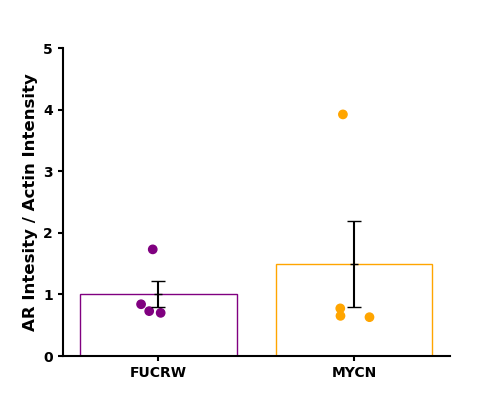
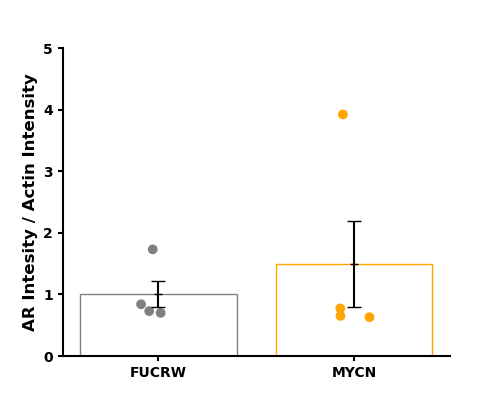
Changed coloring for control group in Western barplots

Changed region(s): [[0.15, 0.72, 0.48, 0.9], [0.3, 0.6, 0.33, 0.63]]

diff --git a/Western_blot/Rep0/Quantification_subset.py b/Western_blot/Rep0/Quantification_subset.py
@@ -61,7 +61,7 @@ if __name__ == '__main__':
     
     ij_object_relative = ij_object.main_method(blank_key = args.blank_key)
     ij_object_relative['Condition'] = [re.sub('-M[0-9]-[0-9]-(E|F)', '', re.sub(' \(1/2\)', '', x)) for x in list(ij_object_relative.index)]
-    ij_object_relative['Color'] = (['orange'] * 4) + (['purple'] * 4)
+    ij_object_relative['Color'] = (['orange'] * 4) + (['grey'] * 4)
 
     ij_object.feature_labels = [x for x in list(ij_object_relative.columns) if x != 'Condition' and x != 'Color' and x != args.normalization_key]
 

diff --git a/Western_blot/Rep1/Quantification/Quantification_subset.py b/Western_blot/Rep1/Quantification/Quantification_subset.py
@@ -61,7 +61,7 @@ if __name__ == '__main__':
     
     ij_object_relative = ij_object.main_method(blank_key = args.blank_key)
     ij_object_relative['Condition'] = [re.sub('-M[0-9]-[0-9]-(E|F)', '', re.sub(' \(1/2\)', '', x)) for x in list(ij_object_relative.index)]
-    ij_object_relative['Color'] = (['orange'] * 4) + (['purple'] * 4)
+    ij_object_relative['Color'] = (['orange'] * 4) + (['grey'] * 4)
 
     ij_object.feature_labels = [x for x in list(ij_object_relative.columns) if x != 'Condition' and x != 'Color' and x != args.normalization_key]
 
